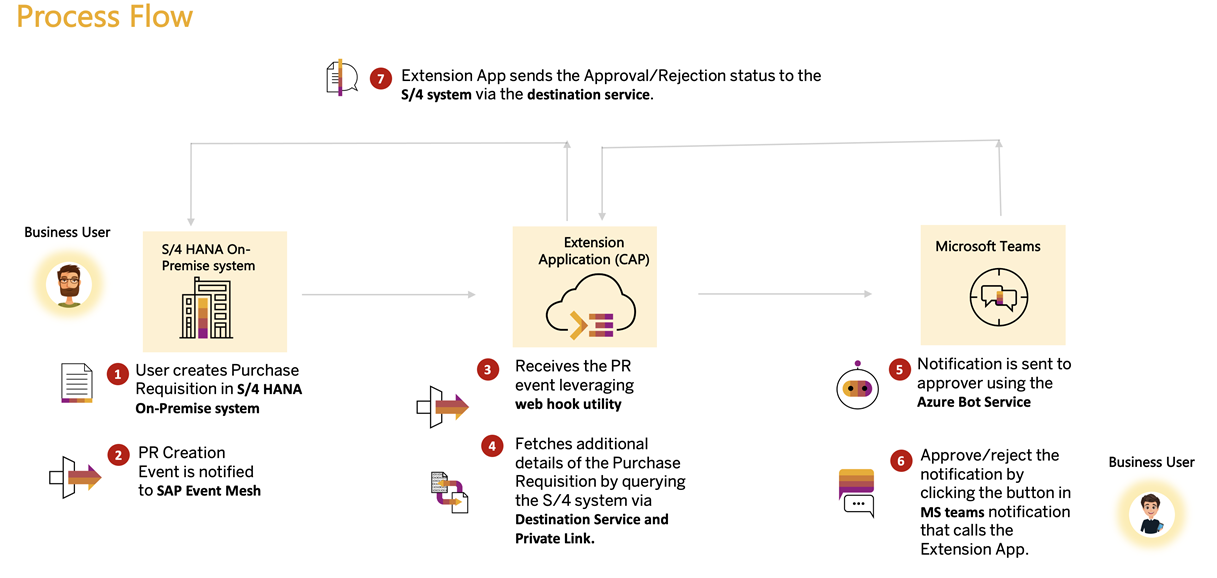
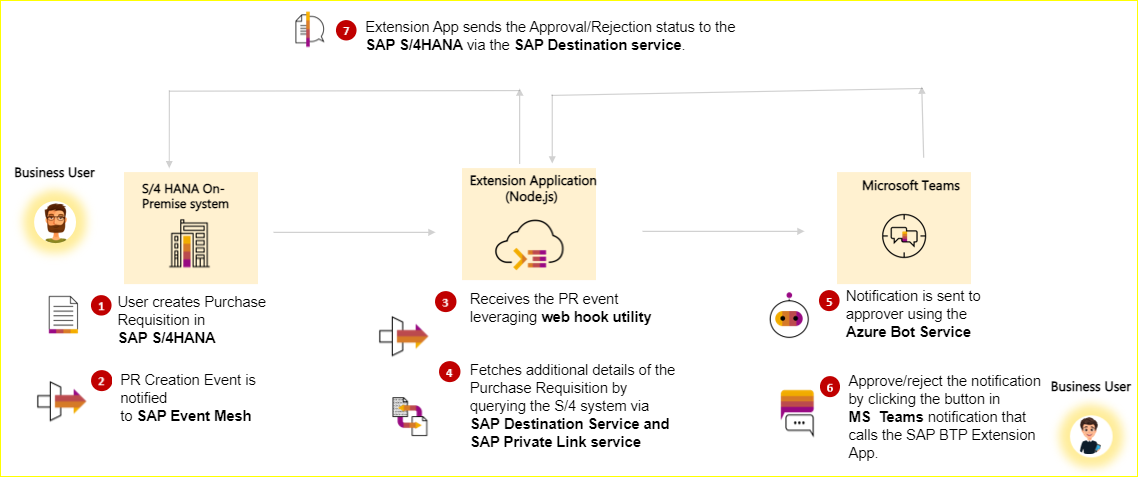
update

diff --git a/tutorial/Step3-Configure-SAP-S4HANA/README.md b/tutorial/Step3-Configure-SAP-S4HANA/README.md
@@ -1,11 +1,11 @@
-## Configure SAP S/4HANA On-Premise System
-In this section, you will configure the Purchase Requisition Flexible workflow and create a background job that reads all the generated workflow instances and sends them to the event mesh. After this step, the event mesh webhook subscription will send the Team's message to the approver.
+## Configure SAP S/4HANA for business scenario
+In this section, you will configure the purchase requisition flexible workflow and create a background job.This background job will read all the generated workflow instances and sends them to the SAP Event Mesh.
 
 ### Prerequisites
 Moderate knowledge of SAP ABAP, assigning user roles & navigating through SAP.
 
 ### Flexible Workflow Activation
-In this step, you will create a Flexible workflow, which will send a request(Workflow instance/Workitem) to an approver when you create a purchase requisition with a net amount greater than or equal to 500 USD in your SAP S/4HANA system.
+In this step, you will create a flexible workflow, which will send a request(Workflow instance/Workitem) to an approver when you create a purchase requisition with a net amount greater than or equal to 500 USD in your SAP S/4HANA system.
 
 >Note: This step is optional if you already have an existing workflow running in your SAP S/4HANA system. Ensure that you deactivate other workflows before creating and activating this new workflow.
 
@@ -33,9 +33,9 @@ In this step, you will create a Flexible workflow, which will send a request(Wor
 ![Step type Approval](images/s4/6.png)
 
 8. Go to the **Recipients** section, select the dropdown value **User** for **Assignment By**, and provide the user id in the **User** field. <br> 
-Please Note: This user id needs to have the email address created in Azure AD. Go to user administrator in SAP S/4HANA and update the User's email address.
+Please Note: This user id needs to have the email address created in Azure AD. Go to user administrator in SAP S/4HANA and update the user's email address.
 ![User Assignment](./images/s4/7.png)
-    >Note: In this step, you will select which User the workflow should go to for approval.
+    >Note: In this step, you will select which user the workflow should go to for approval.
 
 9. Click the **Add** button to save this step. The page will automatically navigate to the previous page.<br>
 ![Save the step](./images/s4/8.png)
@@ -48,16 +48,17 @@ Please Note: This user id needs to have the email address created in Azure AD. G
 
 You have now successfully created and activated the new Flexible Workflow.
 
-### Test Purchase Requisition Creation and Workflow
+### Test purchase requisition creation workflow
 In this step, you will create a purchase requisition and check if the workflow is created in your SAP S/4HANA system
+
 12. Open the Fiori application - **Manage Purchase Requisition Professional**.<br>
     >Note: Enure the Role - SAP_BR_PURCHASER is assigned to the User to have the above application accessible.<br>
-    **Help**: https://fioriappslibrary.hana.ondemand.com/sap/fix/externalViewer/#/detail/Apps('F2229')/S22OP
+    [**SAP Help - Manage Purchase Requisition Professional**](https://fioriappslibrary.hana.ondemand.com/sap/fix/externalViewer/#/detail/Apps('F2229')/S22OP)
 
 13. Click **Create** button to create a new Purchase Requisition.<br>
 ![create pr](./images/s4/31.png)
 
-14. Add an item with the net amount greater than or equal to 500 USD and click **Create to create the Purchase Requisition.<br>
+14. Add an item with the net amount greater than or equal to 500 USD and click **Create** to create the purchase requisition.<br>
 ![create pr](./images/s4/32.png)
 
 15. Open transaction **SWIA** and execute the transaction with shortcut F8(Function 8 key), which will show the newly created workitem in the list with the type **Dialog Step**. Note down the **Task**, which you will use in the upcoming steps.<br>
@@ -65,15 +66,15 @@ In this step, you will create a purchase requisition and check if the workflow i
 
 16. (Optional) You can also open the My Inbox Fiori application for the User configured in **Step 8** to see the workflow instance sent to the User's inbox for approval.<br>
 
-You have successfully created a Purchase Requisition, which created a workflow instance and sent it for approval.
+You have successfully created a purchase requisition, which created a workflow instance and sent it for approval.
 
-### Background Job to send the Workflow Instances to the Event mesh
+### Background Job to send the Workflow Instances to the SAP Event Mesh
 
-In this step, you will create the background job to send the workflow instances(workitems) to the event mesh. After this step, the event mesh subscription will forward the workitems to the Teams application for approval.
+In this step, you will create the background job to send the workflow instances(workitems) to the SAP Event Mesh. After this step, the event mesh subscription will forward the workitems to the Teams application for approval.
 
 
 #### <ins>Create the service key for your Event Mesh<ins>
-In this sub-step, you will create a service key for your Event Mesh instance, which has the OAuth client credentials and the rest service URL to communicate with the Event Mesh.
+In this sub-step, you will create a service key for your SAP Event Mesh instance, which has the OAuth client credentials and the rest service URL to communicate with the SAP Event Mesh.
 
 17. Go to your SAP BTP subaccount and select **Instances and Subscriptions**.<br>
 ![Ins & Subs](./images/s4/11.png)
@@ -106,12 +107,12 @@ In this sub-step, you will create a destination to maintain the rest URL of the 
 26. Select the **Active** radio button for **SSL** in the section **Logon & Security** and **SSL Client(Anonymous)** in **SSL Certificate** and click **Save**.<br>
 ![Destination](./images/s4/19.png)
 
-27. Click **Connection Test** to check if the connection to Event Mesh is established successfully.<br>
+27. Click **Connection Test** to check if the connection to SAP Event Mesh is established successfully.<br>
 ![Connection Button](./images/s4/20.png)
 ![Connection Result](./images/s4/21.png)
 
 #### <ins>Configure the oauth profile<ins>
-In this sub-step, you will configure the OAuth client, which will be used by the destination from **Step 22** to connect to Event Mesh.<br>
+In this sub-step, you will configure the OAuth client, which will be used by the destination from **Step 22** to connect to SAP Event Mesh.<br>
 
 28. Open transaction **OA2C_CONFIG**, which will open a web application in your browser, and click **Create** to create an OAuth client.<br>
 ![OAuth Create](./images/s4/22.png)
@@ -132,8 +133,8 @@ In this sub-step, you will configure the OAuth client, which will be used by the
 Use the below git URL (ABAP branch) to import the ABAP Class and Report, which contains the code to send the Workflow instances(workitems) to Event Mesh.
 
 33. Open **SE38** and execute the program **ZABAPGIT_STANDALONE**.<br>
-    >Note: If the above program is not there in the system, use the below link to install ABAP Git<br>
-    https://docs.abapgit.org/guide-install.html
+    >Note: If the above program is not there in the system, follow the [Install ABAP Git](https://docs.abapgit.org/guide-install.html) documentation.
+    
 
 34. Click **New Online** button to import the repository.<br>
 ![Import Repo](./images/s4/28.png)
@@ -142,8 +143,8 @@ Use the below git URL (ABAP branch) to import the ABAP Class and Report, which c
 ![Repo details](./images/s4/29.png)
 
 36. Select **Clone Online Repo** and click **pull** to save the repo to your SAP S/4HANA system.<br>
-    >Note: For more information, please follow the official ABAP Git tutorial below:<br>
-    https://docs.abapgit.org/guide-online-install.html
+    >Note: For more information, please follow the official [ABAP Git tutorial](https://docs.abapgit.org/guide-online-install.html)
+    
 
 #### <ins>Understanding the Code<ins>
 Now that you have imported the code to push the workitems to the Event Mesh. Let's understand how it works.
@@ -203,12 +204,12 @@ In this step, you will automate the report from **Step 37** to run in the backgr
 
 You have now completed the creation of the background job that will send the newly created workitems to the Event Mesh every 1 minute.
 
-### Testing: From Creation of PR to verifying the message in Event Mesh
-Let's create a new Purchase Requisition and go to Event Mesh to see the message details.
+### Testing: From Creation of PR to verifying the message in SAP Event Mesh
+Let's create a new purchase requisition and go to SAP Event Mesh to see the message details.
 
-53. Repeat the **Steps 12 - 14** to create a new Purchase Requisition and initiate a new Approval workflow. The background job will send the workitem information to the Event Mesh Queue in a minute.
+53. Repeat the **Steps 12 - 14** to create a new purchase requisition and initiate a new approval workflow. The background job will send the workitem information to SAP Event Mesh Queue in a minute.
 
-54. Open the Event Mesh application from your subaccount.<br>
+54. Open the SAP Event Mesh application from your subaccount.<br>
 ![Message Client](./images/s4/48.png)
 
 55. Go to the Message Client you have created and go to the **Test** tab to consume the message.<br>
@@ -220,4 +221,4 @@ Let's create a new Purchase Requisition and go to Event Mesh to see the message 
 57. Click on **Consume** to see the message.<br>
 ![Consume](./images/s4/51.png)
 
-Congratulations!! Now you have completed the creation of the new Flexible workflow for the Purchase Requisition, configured the background job to send the workitems to Event Mesh, and tested it successfully.
+Congratulations!! Now you have completed the creation of the new Flexible workflow for the purchase requisition, configured the background job to send the workitems to SAP Event Mesh, and tested it successfully.

diff --git a/tutorial/Step5-Deploy-Extension-Application/README.md b/tutorial/Step5-Deploy-Extension-Application/README.md
@@ -1,10 +1,10 @@
-## Build and Deployment of SAP BTP Extension Application.
+## Build and Deployment of SAP BTP Extension Application
 
-Let us clone the codebase and deploy the extension application. 
+In this section, you will clone the codebase and deploy the extension application in SAP BTP. 
 
 1. Clone [this](https://github.com/SAP-samples/btp-msteams-extend-workflow) GitHub Repository.
 
-    Before deployment to the SAP BTP environment, please make sure that you created an **XSUAA instance** in your BTP subaccount as described as mentioned under **XSUAA Instance** in Section **Step 1 - Configure SAP BTP**.
+    Before deployment to the SAP BTP environment, please make sure that you created an **XSUAA instance** in your BTP subaccount as described in **XSUAA Instance** in Section **Step 1 - Configure SAP BTP**.
 
     Otherwise, the deployment will fail due to the missing binding. In case you changed the name of your XSUAA instance from **wftaskdec-uaa-service** to something else, please adjust the **manifest.yml** file in the deploy folder of this project. 
 
@@ -30,7 +30,7 @@ Let us clone the codebase and deploy the extension application.
 
     | key    | value    |
     | --------|---------|
-    |**SCENARIO**| For SAP S/4HANA  on-premise, the value is "onpremise" and for SAP S/4HANA on Azure Private Cloud, use the value "azureprivatecloud". Please follow the below steps to configure additional settings needed for SAP S/4HANA running on [Azure-Private-Cloud](../Azure-Private-Cloud-PrivateLink/README.md)  |
+    |**SCENARIO**| For SAP S/4HANA  on-premise, the value is "onpremise" and for SAP S/4HANA Private Cloud, use the value "azureprivatecloud". Please follow the below steps to configure additional settings needed for SAP S/4HANA running on [Azure-Private-Cloud](../Azure-Private-Cloud-PrivateLink/README.md)  |
     |**BTP_LANDSCAPE**|The region of your BTP subaccount e.g. eu20|
     |**BTP_ACCOUNT_NAME**|The subdomain of your BTP subaccount|
     |**XSUAA_CS_URL_SUFFIX**|The audience value (e.g., azure-live-eu20 or aws-live-eu10 or aws-live) which can be extracted from the SAML metadata of your SAP BTP subaccount. Make sure you don’t include the subdomain of your SAP BTP subaccount but only use the value after the last period|
@@ -46,14 +46,14 @@ Let us clone the codebase and deploy the extension application.
     |**SAP_CLIENT**|sap-client number of your S4/HANA system that you are using|
 
 
-4. Open the manifest.yml file to update the application name. This application name needs to be updated in App Registration Configuration in Microsoft Azure.
+4. Open the manifest.yml file to update the application name. This application name needs to be updated in App Registration configuration in Microsoft Azure.
 
     ```console
     Provide your application name in:
     /deploy/manifest.yml
     ```
 5. Build and deploy.
-    Once you're ready, please execute the following steps manually or by running the respective npm command.
+    Once you're ready, execute the following steps manually or by running the respective npm command.
 
     a) Build your server application
 
@@ -81,7 +81,7 @@ Let us clone the codebase and deploy the extension application.
     ![plot](./images/SAPBTPCockpit.png) 
 
 
-6. Microsoft Teams manifest upload.
+6. Upload manifest file in Microsoft Teams.
 
     In this step, you will upload the manifest definition of the extension application to Microsoft Teams.
 
@@ -109,7 +109,7 @@ Let us clone the codebase and deploy the extension application.
     Once you have the configuration parameters updated, you must zip all files in the /deploy/msteamsfiles folder.
     ![plot](./images/zipfilecontent.png) 
 
-    Now, we need to upload this to [Microsoft Teams Admin Center](https://admin.teams.microsoft.com/). Login with an Active Directory user who has a Microsoft Teams Administrator role assigned.
+    Upload this zip file to [Microsoft Teams Admin Center](https://admin.teams.microsoft.com/). Login with an Active Directory user who has a Microsoft Teams Administrator role assigned.
 
     Use the menu as shown below to upload your app.
     ![plot](./images/admincenter.png) 

diff --git a/tutorial/Step6-Testing-the-Application/README.md b/tutorial/Step6-Testing-the-Application/README.md
@@ -1,6 +1,6 @@
-## Test the application.
+## Test the application
 
-Now that you have successfully deployed the Extension application to SAP BTP and uploaded the application manifest  Microsoft Teams Admin Center in the previous steps let us go ahead and test the application.
+Now that you have successfully deployed the extension application to SAP BTP and uploaded the application manifest file in Microsoft Teams Admin Center, let us go ahead and test the application.
 
 1. Log in to SAP BTP Cockpit and check your application. It should be in started state.
 ![plot](./images/appstarted.png)
@@ -19,7 +19,7 @@ Now that you have successfully deployed the Extension application to SAP BTP and
 3. Login to your SAP S/4HANA as the business user (not the manager) and create a Purchase Requisition.
 Note: This business user creates the PR and the manager approves/rejects the PR.
 
-4. You will receive the notification for PR Approval as shown below.
+4. You will receive the notification for PR Approval as shown below in MS Teams.
 
 ![plot](./images/prcreate.png)  
 
@@ -27,4 +27,4 @@ Note: This business user creates the PR and the manager approves/rejects the PR.
 
 ![plot](./images/approved.png)  
 
-Congratulations! You have completed the end-to-end integration with Microsoft Teams and SAP S/4HANA.
+Congratulations! You have completed the end-to-end integration of Microsoft Teams with SAP BTP and SAP S/4HANA.

diff --git a/tutorial/Azure-Private-Cloud-PrivateLink/README.md b/tutorial/Azure-Private-Cloud-PrivateLink/README.md
@@ -2,7 +2,7 @@
 
 ## Business Process Flow
 
-The target application will provide the SAP Business User to be able to perform ERP operations via MS Teams. Below depicts the business process flow.
+The target application will provide the SAP Business user to perform ERP operations via MS Teams. Below depicts the business process flow for purchase requisition approval.
 
 ![plot](../../images/Processflow.png)
 
@@ -164,7 +164,7 @@ Now you will use the newly created system userid & the Trusted Provider to regis
 22. In the **Scope Assignment**, add the Task Processing OData service **ZTASKPROCESSING_0002**, click **Next** and click **Finish**
 ![Step 4 OAuth Scope](./images/Scope%20Oauth%20step4.png)
 
-**Optional**: If the odata service is not visible in **Step 22**, you need to manually enable OAuth for it.
+**Optional**: If the OData service is not visible in **Step 22**, you need to manually enable OAuth for it.
 23. Open the transaction **/n/iwfnd/maint_service**
 24. Select the service **ZTASKPROCESSING** and click the **OAuth** button to enable OAuth scope for the service
 ![Enable OAuth scope](./images/Enable%20OAuth.png)

diff --git a/tutorial/Step1-Configure-SAP-BTP/README.md b/tutorial/Step1-Configure-SAP-BTP/README.md
@@ -78,7 +78,7 @@ plan : lite
 
 ![plot](./images/btp-dest-instance.png)
 
-For the connection to an on-premise SAP S/4HANA system, you can optionally use this service, together with (i.e. in addition to) the SAP Connectivity service, see Consuming the Connectivity Service.
+For the connection to an on-premise SAP S/4HANA system, you can optionally use this service, together with (i.e. in addition to) the SAP Connectivity service, see [Consuming the Connectivity Service](https://help.sap.com/docs/CP_CONNECTIVITY/cca91383641e40ffbe03bdc78f00f681/313b215066a8400db461b311e01bd99b.html?locale=en-US)
 
 
 ### 5.Configure SAP Connectivity Service
